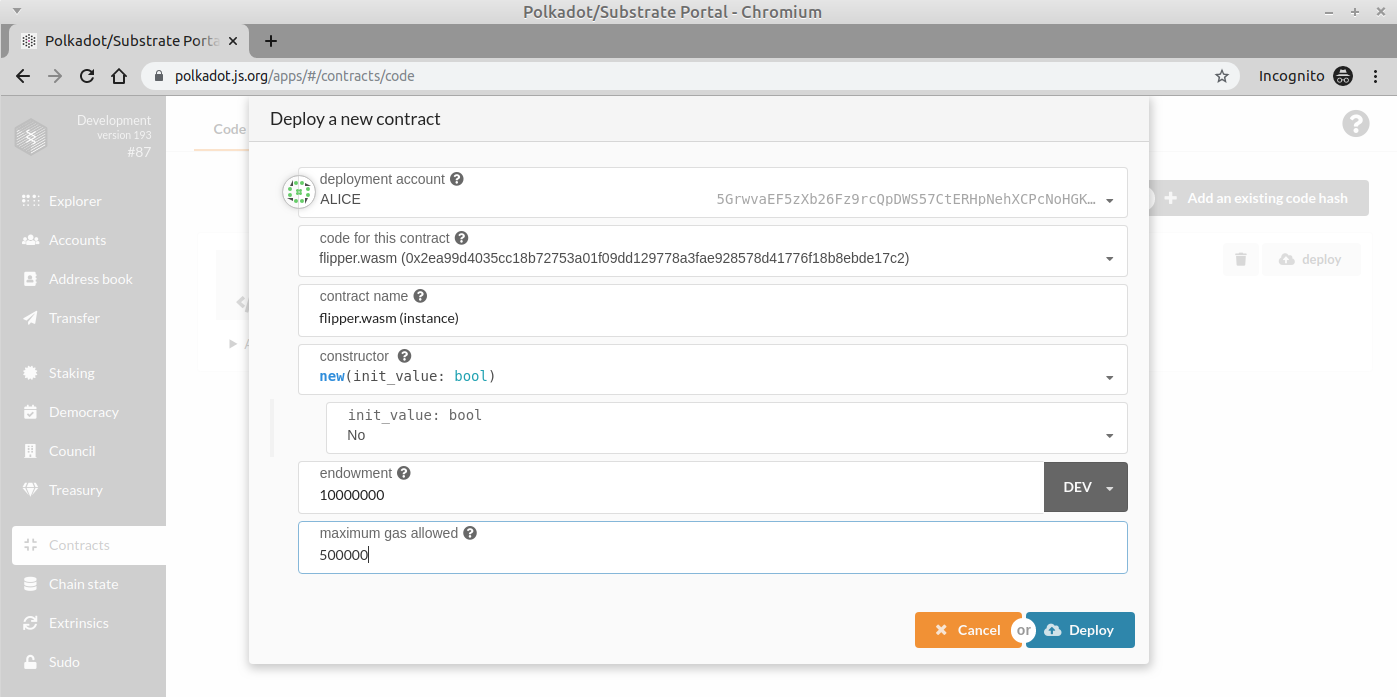
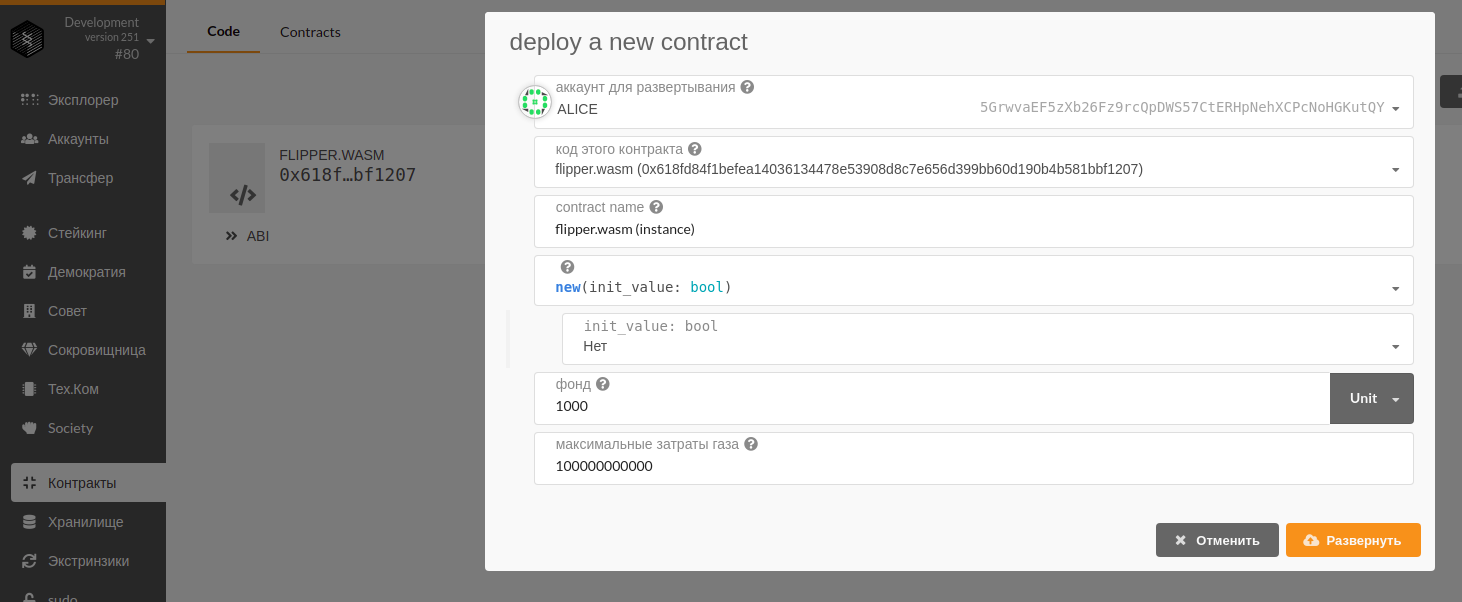
Replace image and fix _endowment_ value

diff --git a/0/deploying-your-contract.md b/0/deploying-your-contract.md
@@ -36,7 +36,7 @@ Smart contracts exist as an extension of the account system on the blockchain. T
 
 You will notice on the **Code** tab there is a new object that represents our smart contract. We now need to deploy our smart contract to create an **instance**. Press the "Deploy" button on the flipper contract.
 
-To instantiate our contract we just need to give this contract account an _endowment_ of `1,000,000` in order to pay the storage rent and again set the _maximum gas allowed_ to `500,000` units:
+To instantiate our contract we just need to give this contract account an _endowment_ of `1,000` in order to pay the storage rent and again set the _maximum gas allowed_ to default value(`100000000000`) units:
 
 ![An image of the Contracts Instance Page](./assets/flipper-instance-page.png)
 
